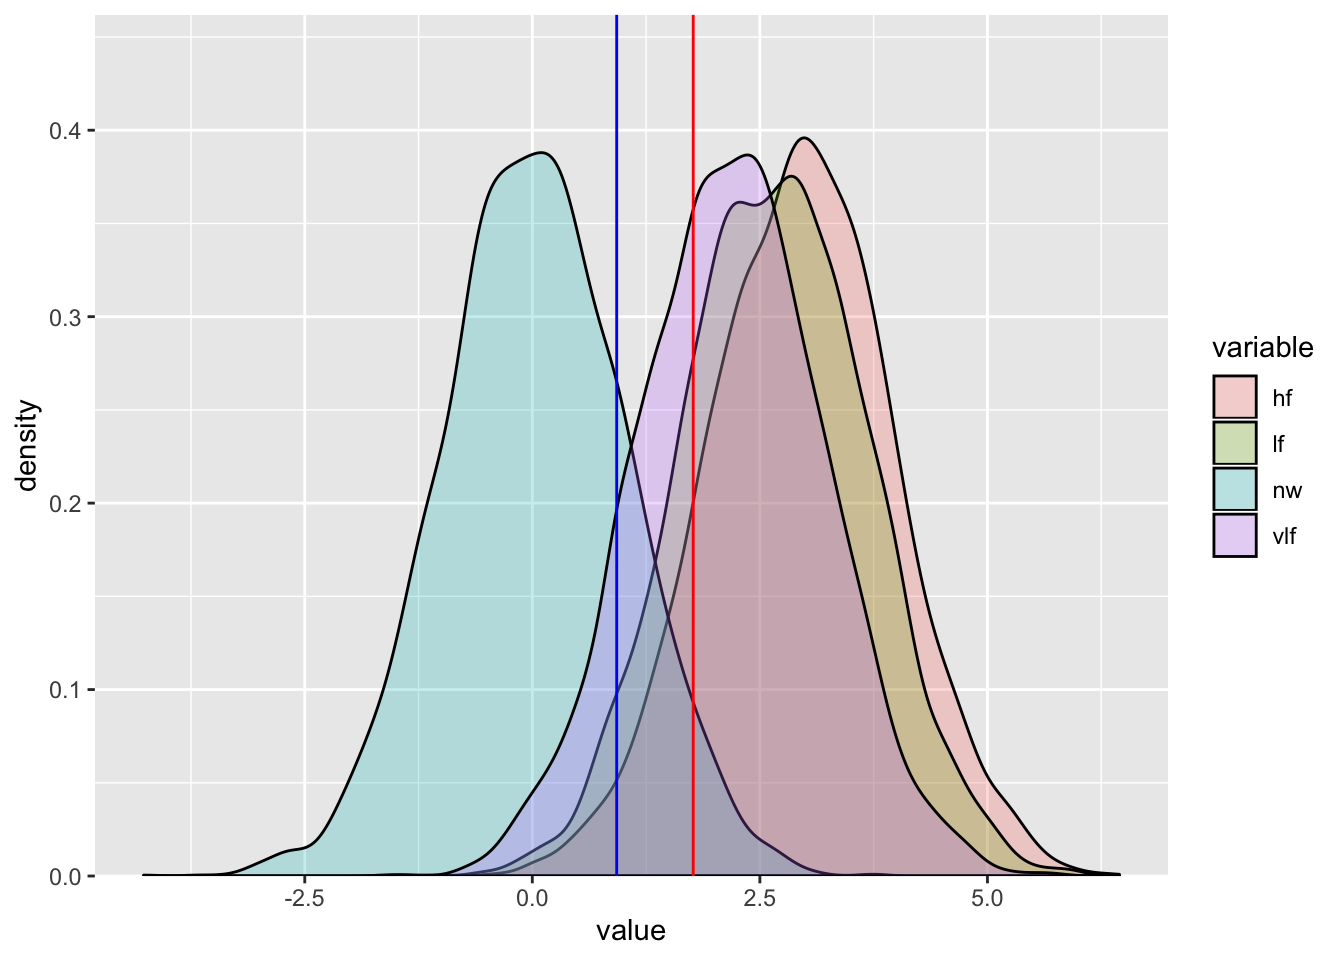
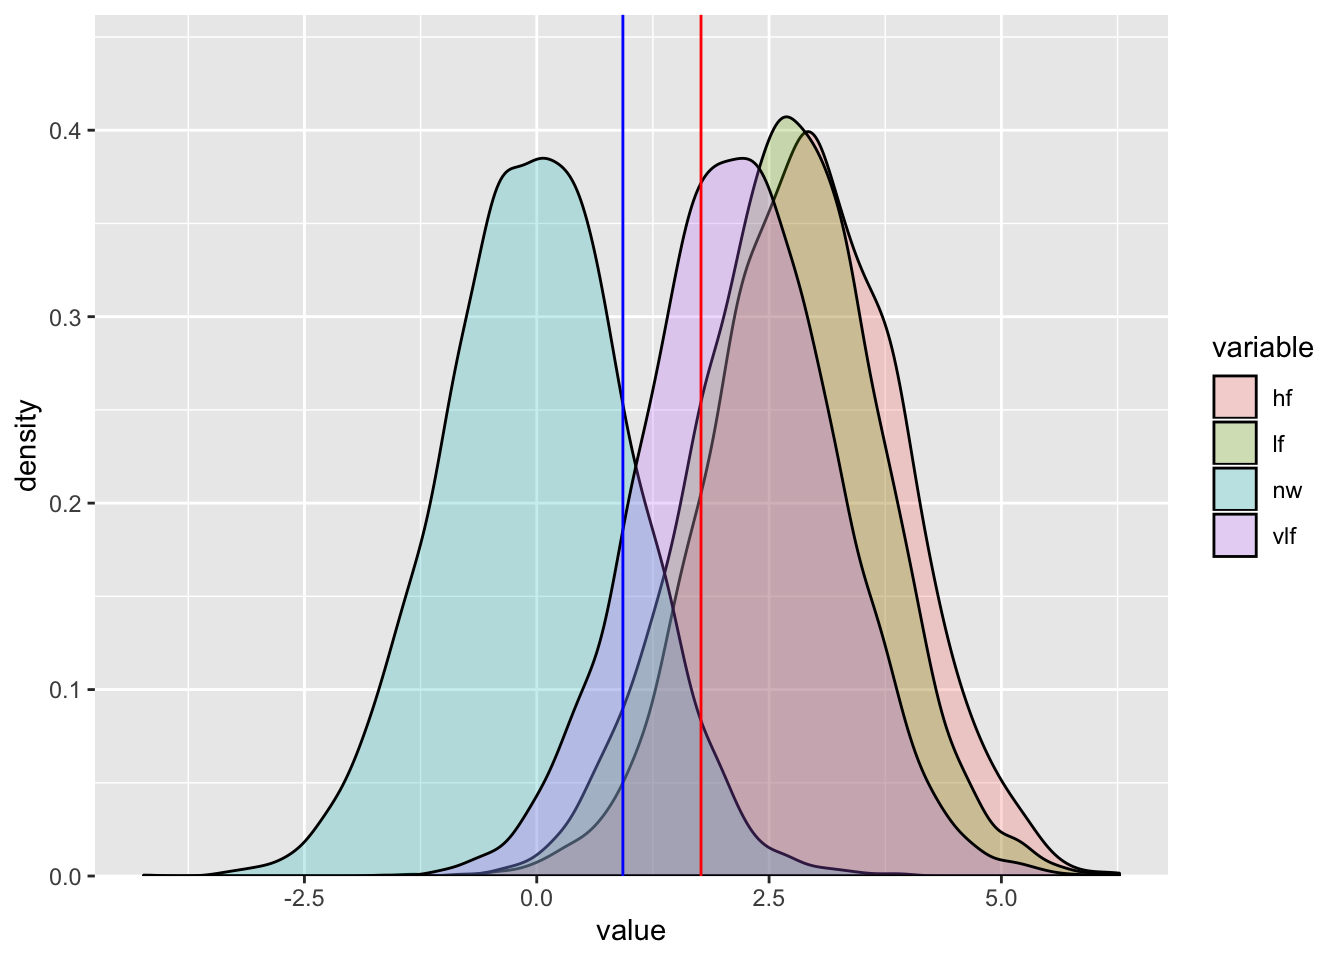
update SDT text

diff --git a/docs/how-to-use-the-pmwg-sampler-signal-detection-theory.html b/docs/how-to-use-the-pmwg-sampler-signal-detection-theory.html
@@ -157,18 +157,25 @@ code > span.in { color: #60a0b0; font-weight: bold; font-style: italic; } /* Inf
 <div id="how-to-use-the-pmwg-sampler---signal-detection-theory" class="section level1">
 <h1><span class="header-section-number">Chapter 2</span> How to use the PMwG sampler - Signal Detection Theory</h1>
 <p>Here we demonstrate how to use the PMwG sampler package to run a simple signal detection theory (SDT) analysis on a lexical decision task. We recognise that it is unnecessary to use the sampler package for a simple analysis such as this; however, we hope this example demonstrates the usefulness of the PMwG sampler package.</p>
-<p>Stolen from Wagenmakers paper “This is analogous to a signal detection analysis that allows one to disentangle effects of stimulus discriminability (e.g., d0) from those of criterion placement (i.e., b).”</p>
 <div id="sdtOutline" class="section level3">
 <h3><span class="header-section-number">2.0.1</span> Signal Detection Theory analysis of lexical decision task</h3>
-<p>We assume you have an understanding of SDT so we’ll jump to an explanation of how we can use SDT in the context of the lexical decision task.<br></p>
-<p>We begin with the distributions for <i>non-word</i> and <i>word</i> stimuli. You can think of these two distributions as the ‘noise’ and ‘signal’ curves, respectively. Each distribution represents the evidence for ‘word-likeness’ and they are assumed to be normally distributed. The <i>non-word</i> distribution (or the ‘noise’ distribution) has a mean of 0 and a standard deviation (SD) of 1. We could estimate SD here, but we will use 1 in this example for simplicity. The mean for the <i>word</i> distribution is unknown at this point; however, we assign a d-prime (d’) parameter to denote the difference between the mean of the <i>non-word</i> and the mean of the <i>word</i> distributions (i.e. the signal-noise difference between words and non-words). The second parameter we denote is the criterion (C) parameter i.e. the point at which an individual responds <i>non-word</i> (to the left of the criterion (C) in Figure <a href="how-to-use-the-pmwg-sampler-signal-detection-theory.html#fig:sdtImg">2.2</a>) or <i>word</i> (to the right of the criterion (C) in Figure <a href="how-to-use-the-pmwg-sampler-signal-detection-theory.html#fig:sdtImg">2.2</a>). Given these parameters, one would expect that the <i>word</i> distribution would have a higher mean than the non-words, with partial overlap (for words and non-words which might be difficult to classify). The criterion should then be set somewhere between these means. If a person was biased to respond “word”, their criterion would move left. In total, in the simple SDT model, there would be 2 parameters - d’ (the mean of the word distribution) and C (the criterion).</p>
-<p><b> Need to add something about means should be positive - to the right of NW mean of 0, otherwise the line about “given these parameters, one would expect that the <i>word</i> distribution would have a higher mean than the non-words, with partial overlap” does not make sense.</b></p>
-<div class="figure"><span id="fig:simpleSDTImg"></span>
-<img src="simpleSDT.png" alt="Simple SDT example of lexical decision task" width="100%" />
+<p>We assume you have an understanding of SDT and lexical decision tasks, so we’ll jump straight into how you can use the PMwG package with SDT in the context of the lexical decision task.<br></p>
+<p><b> Do we need to explain lexical decision tasks?? We desribe the procedure briefly below - Participants were asked to indicate whether a letter string was a <i>word</i> or a <i>non-word</i>. </b></p>
+We begin with the distributions for <i>non-word</i> and <i>word</i> stimuli. You can think of these two distributions as the ‘noise’ and ‘signal’ curves, respectively. Each distribution represents the evidence for ‘word-likeness’ and they are assumed to be normally distributed. The <i>non-word</i> distribution (or the ‘noise’ distribution) has a mean (<span class="math inline">\(\mu\)</span>) of 0 and a standard deviation (SD) of 1. We could estimate SD here, but we will use 1 in this example for simplicity. The mean for the <i>word</i> distribution is unknown at this point; however, we assign a d-prime (d’) parameter to denote the difference between the mean of the <i>non-word</i> and the mean of the <i>word</i> distributions (i.e. the ‘sensitivity’ to word stimuli or the signal-noise difference between <i>words</i> and <i>non-word</i>). As can be seen in Figure <a href="how-to-use-the-pmwg-sampler-signal-detection-theory.html#fig:SDT1">2.1</a>, the <i>word</i> distribution mean is greater than the <i>non-word</i> distribution mean; however, the distributions partially overlap where <i>non-words</i> and <i>words</i> are difficult to classify. <br>
+<div class="figure"><span id="fig:SDT1"></span>
+<img src="SDT_1.png" alt="Simple SDT example of lexical decision task" width="100%" />
 <p class="caption">
 Figure 2.1: Simple SDT example of lexical decision task
 </p>
 </div>
+<p>The second parameter we denote is the criterion (C) parameter. The criterion is the point at which an individual responds <i>non-word</i> (to the left of the criterion (C) in Figure <a href="how-to-use-the-pmwg-sampler-signal-detection-theory.html#fig:SDT2">2.2</a>) or <i>word</i> (to the right of the criterion (C) in Figure <a href="how-to-use-the-pmwg-sampler-signal-detection-theory.html#fig:SDT2">2.2</a>) and it is set somewhere between the means of the two distributions. If you’re biased to respond <i>word</i>, the criterion would move to the left. Conversely, if you’re biased to respond <i>non-word</i> then the criterion would move to the right.</p>
+<div class="figure"><span id="fig:SDT2"></span>
+<img src="SDT_2.png" alt="Simple SDT example of lexical decision task" width="100%" />
+<p class="caption">
+Figure 2.2: Simple SDT example of lexical decision task
+</p>
+</div>
+<p><b> Do we need to add something about means should be positive - to the right of NW mean of 0, otherwise the line about “given these parameters, one would expect that the <i>word</i> distribution would have a higher mean than the non-words, with partial overlap” does not make sense.</b></p>
 </div>
 <div id="writing-a-log-likelihood-function" class="section level3">
 <h3><span class="header-section-number">2.0.2</span> Writing a log-likelihood function</h3>
@@ -220,7 +227,7 @@ fabData &lt;-<span class="st"> </span><span class="kw">as.data.frame</span>(<spa
 </tr>
 </tbody>
 </table>
-<p>Our log likelihood function will step through the data, line by line, and find a likelihood value for each trial, under two parameters; d-prime <code>d</code> and a criterion <code>C</code>. As mentioned <a href="how-to-use-the-pmwg-sampler-signal-detection-theory.html#sdtOutline">above</a> the <i>non-word</i> distribution has a mean of 0 and SD of 1. This then gives a reference point for where the mean of the <i>word</i> distribution would sit and is denoted by d’. Now we must find the location of the criterion. Setting the criterion allows us to determine which response will be made i.e. above the criterion, participant will respond <i>word</i> and below the criterion, participant will respond <i>non-word</i>.</p>
+<p>Our log likelihood function will step through the data, line by line, and find a likelihood value for each trial, under two parameters; d-prime <code>d</code> and a criterion <code>C</code>. <b> Remove this section?? Some info is covered above</b> As mentioned <a href="how-to-use-the-pmwg-sampler-signal-detection-theory.html#sdtOutline">above</a> the <i>non-word</i> distribution has a mean of 0 and SD of 1. This then gives a reference point for where the mean of the <i>word</i> distribution would sit and is denoted by d’. Now we must find the location of the criterion. Setting the criterion allows us to determine which response will be made i.e. above the criterion, participant will respond <i>word</i> and below the criterion, participant will respond <i>non-word</i>.</p>
 <p>Here is our complete log likelihood function. You can copy this function if you’d like to follow along with our example.</p>
 <div class="sourceCode"><table class="sourceCode r numberLines"><tr class="sourceCode"><td class="lineNumbers"><pre>1
 2
@@ -303,7 +310,7 @@ fabData &lt;-<span class="st"> </span><span class="kw">as.data.frame</span>(<spa
       out &lt;-<span class="st"> </span><span class="kw">numeric</span>(<span class="kw">nrow</span>(data))
       data<span class="op">$</span>out &lt;-<span class="st"> </span><span class="ot">NA</span>
       }</code></pre></td></tr></table></div>
-<p>From line 9, we check each row in the data set, first considering all trials with <i>word</i> stimuli <code>if (stim[i] == &quot;word&quot;</code> (line 10), and assign a likelihood for responding <i>word</i> (line 11-12) or <i>non-word</i> (line 13-14). The <i>word</i> distribution has a mean of <code>x[&quot;d&quot;]</code> (d-prime parameter) and a decision criterion parameter <code>x[&quot;C&quot;]</code>. If the response is <i>word</i>, we are considering values ABOVE or to the right of the <i>word</i> criterion (<B>C<sub>w</sub></B>) in <a href="how-to-use-the-pmwg-sampler-signal-detection-theory.html#fig:sdtImg">2.2</a>, so we set <code>lower.tail =</code> to <code>FALSE</code>. If the response is <i>non-word</i>, we look for values BELOW or to the left of the <i>word</i> criterion (<B>C<sub>w</sub></B>) in <a href="how-to-use-the-pmwg-sampler-signal-detection-theory.html#fig:sdtImg">2.2</a> and we set <code>lower.tail =</code> to <code>TRUE</code>. The <code>log.p =</code> argument takes the log of all likelihood values when set to <code>TRUE</code>. We do this so we can sum all likelihoods at the end of the function. <b> Do we need to explain p-norm??</b></p>
+<p>From line 9, we check each row in the data set, first considering all trials with <i>word</i> stimuli <code>if (stim[i] == &quot;word&quot;</code> (line 10), and assign a likelihood for responding <i>word</i> (line 11-12) or <i>non-word</i> (line 13-14). The <i>word</i> distribution has a mean of <code>x[&quot;d&quot;]</code> (d-prime parameter) and a decision criterion parameter <code>x[&quot;C&quot;]</code>. If the response is <i>word</i>, we are considering values ABOVE or to the right of the <i>word</i> criterion (<B>C<sub>w</sub></B>) in <a href="#fig:sdtImg"><strong>??</strong></a>, so we set <code>lower.tail =</code> to <code>FALSE</code>. If the response is <i>non-word</i>, we look for values BELOW or to the left of the <i>word</i> criterion (<B>C<sub>w</sub></B>) in <a href="#fig:sdtImg"><strong>??</strong></a> and we set <code>lower.tail =</code> to <code>TRUE</code>. The <code>log.p =</code> argument takes the log of all likelihood values when set to <code>TRUE</code>. We do this so we can sum all likelihoods at the end of the function. <b> Do we need to explain p-norm??</b></p>
 <div class="sourceCode" startFrom="8"><table class="sourceCode r numberLines"><tr class="sourceCode"><td class="lineNumbers"><pre>8
 9
 10
@@ -325,7 +332,7 @@ fabData &lt;-<span class="st"> </span><span class="kw">as.data.frame</span>(<spa
                      <span class="dt">log.p =</span> <span class="ot">TRUE</span>, <span class="dt">lower.tail =</span> <span class="ot">TRUE</span>)
       }</code></pre></td></tr></table></div>
 <p><b>Include a modified version of SDT illustration?</b></p>
-<p>From line 16 (<code>}else{</code> i.e. <code>stim[i] == &quot;non-word&quot;</code>), we have the function for <i>non-word</i> trials. As can be seen below, the output value <code>out[i]</code> for these trials is arrived at in a similar manner to the <i>word</i> trials. We set the <code>mean</code> to 0 and the standard deviation (<code>sd</code>) to 1. If the response is <i>word</i>, we are considering values ABOVE or to the right of the <i>non-word</i> criterion (<B>C<sub>nw</sub></B>) in <a href="how-to-use-the-pmwg-sampler-signal-detection-theory.html#fig:sdtImg">2.2</a>, so we set <code>lower.tail =</code> to <code>FALSE</code>. If the response is <i>non-word</i>, we look for values BELOW or to the left of the <i>non-word</i> criterion (<B>C<sub>nw</sub></B>) in <a href="how-to-use-the-pmwg-sampler-signal-detection-theory.html#fig:sdtImg">2.2</a> and we set <code>lower.tail =</code> to <code>TRUE</code>. Again we want the log of all likelihood values so <code>log.p = TRUE</code>.</p>
+<p>From line 16 (<code>}else{</code> i.e. <code>stim[i] == &quot;non-word&quot;</code>), we have the function for <i>non-word</i> trials. As can be seen below, the output value <code>out[i]</code> for these trials is arrived at in a similar manner to the <i>word</i> trials. We set the <code>mean</code> to 0 and the standard deviation (<code>sd</code>) to 1. If the response is <i>word</i>, we are considering values ABOVE or to the right of the <i>non-word</i> criterion (<B>C<sub>nw</sub></B>) in <a href="#fig:sdtImg"><strong>??</strong></a>, so we set <code>lower.tail =</code> to <code>FALSE</code>. If the response is <i>non-word</i>, we look for values BELOW or to the left of the <i>non-word</i> criterion (<B>C<sub>nw</sub></B>) in <a href="#fig:sdtImg"><strong>??</strong></a> and we set <code>lower.tail =</code> to <code>TRUE</code>. Again we want the log of all likelihood values so <code>log.p = TRUE</code>.</p>
 <div class="sourceCode" startFrom="17"><table class="sourceCode r numberLines"><tr class="sourceCode"><td class="lineNumbers"><pre>17
 18
 19
@@ -477,30 +484,23 @@ fabData &lt;-<span class="st"> </span><span class="kw">as.data.frame</span>(<spa
 <td align="right">0.445</td>
 <td align="right">2</td>
 </tr>
-<tr class="odd">
-<td align="right">Our log-li</td>
-<td align="left">kelihoo</td>
-<td align="left">d funct</td>
-<td align="left">ion for</td>
-<td align="right">Wagenma</td>
-<td align="right">kers experimental data is similar to the function we wrote above, except now we need to include</td>
-</tr>
 </tbody>
 </table>
-<div class="figure"><span id="fig:sdtImg"></span>
-<img src="sdt.png" alt="Signal detection theory example of lexical decision task" width="100%" />
+<p>Our log-likelihood function for Wagenmakers experimental data is similar to the function we wrote above, except now we need to include</p>
+<div class="figure"><span id="fig:SDT3"></span>
+<img src="SDT_3.png" alt="Signal detection theory example of lexical decision task" width="100%" />
 <p class="caption">
-Figure 2.2: Signal detection theory example of lexical decision task
+Figure 2.3: Signal detection theory example of lexical decision task
 </p>
 </div>
 <p>Again, we first specify the function with x, data and sample = FALSE</p>
 <div class="sourceCode"><pre class="sourceCode r"><code class="sourceCode r">SDT_loglike_slow =<span class="st"> </span><span class="cf">function</span>(x,data,<span class="dt">sample=</span><span class="ot">FALSE</span>){</code></pre></div>
 <p>(d’<sub>hf</sub>, d’<sub>lf</sub>, d’<sub>vlf</sub>)</p>
-<p><a href="how-to-use-the-pmwg-sampler-signal-detection-theory.html#fig:sdtPlot">2.3</a></p>
+<p><a href="how-to-use-the-pmwg-sampler-signal-detection-theory.html#fig:sdtPlot">2.4</a></p>
 <div class="figure"><span id="fig:sdtPlot"></span>
 <img src="bookdown-demo_files/figure-html/sdtPlot-1.png" alt="sdt posterior" width="672" />
 <p class="caption">
-Figure 2.3: sdt posterior
+Figure 2.4: sdt posterior
 </p>
 </div>
 <p><b>A second example might cover another SDT example with the addition of trial level covariate i.e. analytic solution NA.</b></p>
@@ -570,6 +570,20 @@ gitbook.start({
 });
 </script>
 
+<!-- dynamically load mathjax for compatibility with self-contained -->
+<script>
+  (function () {
+    var script = document.createElement("script");
+    script.type = "text/javascript";
+    var src = "";
+    if (src === "" || src === "true") src = "https://mathjax.rstudio.com/latest/MathJax.js?config=TeX-MML-AM_CHTML";
+    if (location.protocol !== "file:")
+      if (/^https?:/.test(src))
+        src = src.replace(/^https?:/, '');
+    script.src = src;
+    document.getElementsByTagName("head")[0].appendChild(script);
+  })();
+</script>
 </body>
 
 </html>

diff --git a/docs/example-2-forstmann-et-al-2008-dataset.html b/docs/example-2-forstmann-et-al-2008-dataset.html
@@ -161,7 +161,7 @@ code > span.in { color: #60a0b0; font-weight: bold; font-style: italic; } /* Inf
 <h2><span class="header-section-number">3.1</span> Description of Forstmann experiment</h2>
 <p>First we need to install the psamplers package. We currently recommended installing psamplers via devtools.</p>
 <div class="sourceCode"><pre class="sourceCode r"><code class="sourceCode r"><span class="co"># The samplers package will be on CRAN - this step will be removed.</span>
-<span class="kw">install_github</span>(<span class="st">&#39;gjcooper\samplers&#39;</span>)</code></pre></div>
+<span class="kw">install_github</span>(<span class="st">&#39;newcastlecl\samplers&#39;</span>)</code></pre></div>
 <div class="sourceCode"><pre class="sourceCode r"><code class="sourceCode r"><span class="kw">library</span>(psamplers)</code></pre></div>
 <p>Forstmann et al looked at neural correlates of decision making under time pressure, with an aim to identify areas of the brain associated with speed-accuracy tradeoff. Imaging (fMRI) and behavioural data was collected; however, we will analyse behavioural data from the decision-making task only. In terms of modelling the data, Forstmann expected to find differences in thresholds (direction?) for each of the three speed-emphasis conditions. We have included the Forstmann et als data in the psamplers package as a data frame object named <code>forstmann</code>. The sampler requires a data frame with a <b><code>subject</code></b> column. The subject column data type can be a factor or numeric.</p>
 <p>Table <a href="example-2-forstmann-et-al-2008-dataset.html#tab:forsthead10">3.1</a> shows the first ten trials from the Forstmann dataset. Participants <code>(n = 19)</code> were asked to indicate whether a cloud of dots in a random-dot kinematogram (RDK) moved to the left or the right of the screen. The IV was a within-subject, speed-accuracy manipulation where, before each trial began, pariticipants were instructed to make their choice <i>accurately</i> <code>(condition = 1)</code>, with <i>urgency</i><code>(condition = 3)</code>or were presented with a <i>neutral</i> message <code>(condition = 2)</code>. Choice and response time data was collected. Choices were coded as correct <code>(correct = 2)</code> or incorrect <code>(correct =  1)</code> and response times <code>(rt)</code> were recorded in seconds. For more information about the design of the experiment please see <a href="https://www.pnas.org/content/105/45/17538.short">the original paper</a>.</p>
@@ -515,6 +515,20 @@ gitbook.start({
 });
 </script>
 
+<!-- dynamically load mathjax for compatibility with self-contained -->
+<script>
+  (function () {
+    var script = document.createElement("script");
+    script.type = "text/javascript";
+    var src = "";
+    if (src === "" || src === "true") src = "https://mathjax.rstudio.com/latest/MathJax.js?config=TeX-MML-AM_CHTML";
+    if (location.protocol !== "file:")
+      if (/^https?:/.test(src))
+        src = src.replace(/^https?:/, '');
+    script.src = src;
+    document.getElementsByTagName("head")[0].appendChild(script);
+  })();
+</script>
 </body>
 
 </html>

diff --git a/docs/index.html b/docs/index.html
@@ -157,7 +157,7 @@ code > span.in { color: #60a0b0; font-weight: bold; font-style: italic; } /* Inf
 <div id="header">
 <h1 class="title">Particle Based Samplers for MCMC</h1>
 <p class="author"><em>Jon-Paul Cavallaro</em></p>
-<p class="date"><em>Monday 20 April 2020</em></p>
+<p class="date"><em>Wednesday 22 April 2020</em></p>
 </div>
 <div id="introduction-to-particle-based-sampler-for-mcmc" class="section level1">
 <h1><span class="header-section-number">Chapter 1</span> Introduction to Particle Based Sampler for MCMC</h1>
@@ -249,6 +249,20 @@ gitbook.start({
 });
 </script>
 
+<!-- dynamically load mathjax for compatibility with self-contained -->
+<script>
+  (function () {
+    var script = document.createElement("script");
+    script.type = "text/javascript";
+    var src = "";
+    if (src === "" || src === "true") src = "https://mathjax.rstudio.com/latest/MathJax.js?config=TeX-MML-AM_CHTML";
+    if (location.protocol !== "file:")
+      if (/^https?:/.test(src))
+        src = src.replace(/^https?:/, '');
+    script.src = src;
+    document.getElementsByTagName("head")[0].appendChild(script);
+  })();
+</script>
 </body>
 
 </html>

diff --git a/docs/common-problems-better-name-required-troubleshooting-page.html b/docs/common-problems-better-name-required-troubleshooting-page.html
@@ -246,6 +246,20 @@ gitbook.start({
 });
 </script>
 
+<!-- dynamically load mathjax for compatibility with self-contained -->
+<script>
+  (function () {
+    var script = document.createElement("script");
+    script.type = "text/javascript";
+    var src = "";
+    if (src === "" || src === "true") src = "https://mathjax.rstudio.com/latest/MathJax.js?config=TeX-MML-AM_CHTML";
+    if (location.protocol !== "file:")
+      if (/^https?:/.test(src))
+        src = src.replace(/^https?:/, '');
+    script.src = src;
+    document.getElementsByTagName("head")[0].appendChild(script);
+  })();
+</script>
 </body>
 
 </html>

diff --git a/docs/example-2-single-threshold-parameter.html b/docs/example-2-single-threshold-parameter.html
@@ -230,6 +230,20 @@ gitbook.start({
 });
 </script>
 
+<!-- dynamically load mathjax for compatibility with self-contained -->
+<script>
+  (function () {
+    var script = document.createElement("script");
+    script.type = "text/javascript";
+    var src = "";
+    if (src === "" || src === "true") src = "https://mathjax.rstudio.com/latest/MathJax.js?config=TeX-MML-AM_CHTML";
+    if (location.protocol !== "file:")
+      if (/^https?:/.test(src))
+        src = src.replace(/^https?:/, '');
+    script.src = src;
+    document.getElementsByTagName("head")[0].appendChild(script);
+  })();
+</script>
 </body>
 
 </html>

diff --git a/docs/example-3-wagenmakers-2008-experiment-2.html b/docs/example-3-wagenmakers-2008-experiment-2.html
@@ -215,6 +215,20 @@ gitbook.start({
 });
 </script>
 
+<!-- dynamically load mathjax for compatibility with self-contained -->
+<script>
+  (function () {
+    var script = document.createElement("script");
+    script.type = "text/javascript";
+    var src = "";
+    if (src === "" || src === "true") src = "https://mathjax.rstudio.com/latest/MathJax.js?config=TeX-MML-AM_CHTML";
+    if (location.protocol !== "file:")
+      if (/^https?:/.test(src))
+        src = src.replace(/^https?:/, '');
+    script.src = src;
+    document.getElementsByTagName("head")[0].appendChild(script);
+  })();
+</script>
 </body>
 
 </html>

diff --git a/docs/non-rtchoice-example.html b/docs/non-rtchoice-example.html
@@ -214,6 +214,20 @@ gitbook.start({
 });
 </script>
 
+<!-- dynamically load mathjax for compatibility with self-contained -->
+<script>
+  (function () {
+    var script = document.createElement("script");
+    script.type = "text/javascript";
+    var src = "";
+    if (src === "" || src === "true") src = "https://mathjax.rstudio.com/latest/MathJax.js?config=TeX-MML-AM_CHTML";
+    if (location.protocol !== "file:")
+      if (/^https?:/.test(src))
+        src = src.replace(/^https?:/, '');
+    script.src = src;
+    document.getElementsByTagName("head")[0].appendChild(script);
+  })();
+</script>
 </body>
 
 </html>

diff --git a/docs/references.html b/docs/references.html
@@ -225,6 +225,20 @@ gitbook.start({
 });
 </script>
 
+<!-- dynamically load mathjax for compatibility with self-contained -->
+<script>
+  (function () {
+    var script = document.createElement("script");
+    script.type = "text/javascript";
+    var src = "";
+    if (src === "" || src === "true") src = "https://mathjax.rstudio.com/latest/MathJax.js?config=TeX-MML-AM_CHTML";
+    if (location.protocol !== "file:")
+      if (/^https?:/.test(src))
+        src = src.replace(/^https?:/, '');
+    script.src = src;
+    document.getElementsByTagName("head")[0].appendChild(script);
+  })();
+</script>
 </body>
 
 </html>
